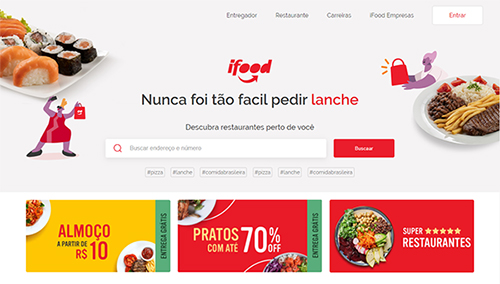
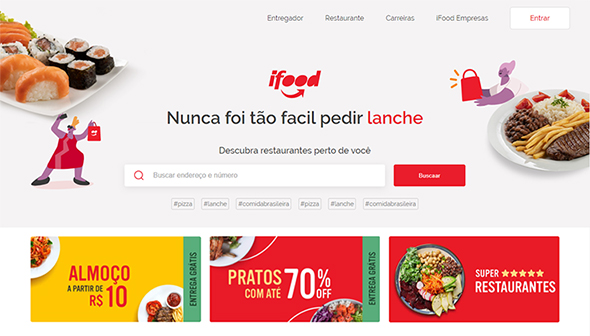
change screenshot size

diff --git a/README.md b/README.md
@@ -10,14 +10,6 @@ iFood HTML CSS
 <p align="center">Watch on <a href="https://www.youtube.com/watch?v=Btkx_7JFKbA">Youtube</a></p>
 
 <div align="center">
-  <img align="center" src="https://github.com/reginaldop/ifood-html-css/blob/master/images/iFood.jpg" height="284">
+  <img align="center" src="https://github.com/reginaldop/ifood-html-css/blob/master/images/iFood.jpg">
 
-</div>
-
-<hr />
-
-## Tutorial Vídeo
-
-<div align="center">
-  <a href="https://www.youtube.com/watch?v=Btkx_7JFKbA"><img src="https://img.youtube.com/vi/Btkx_7JFKbA/0.jpg"></a>
 </div>
